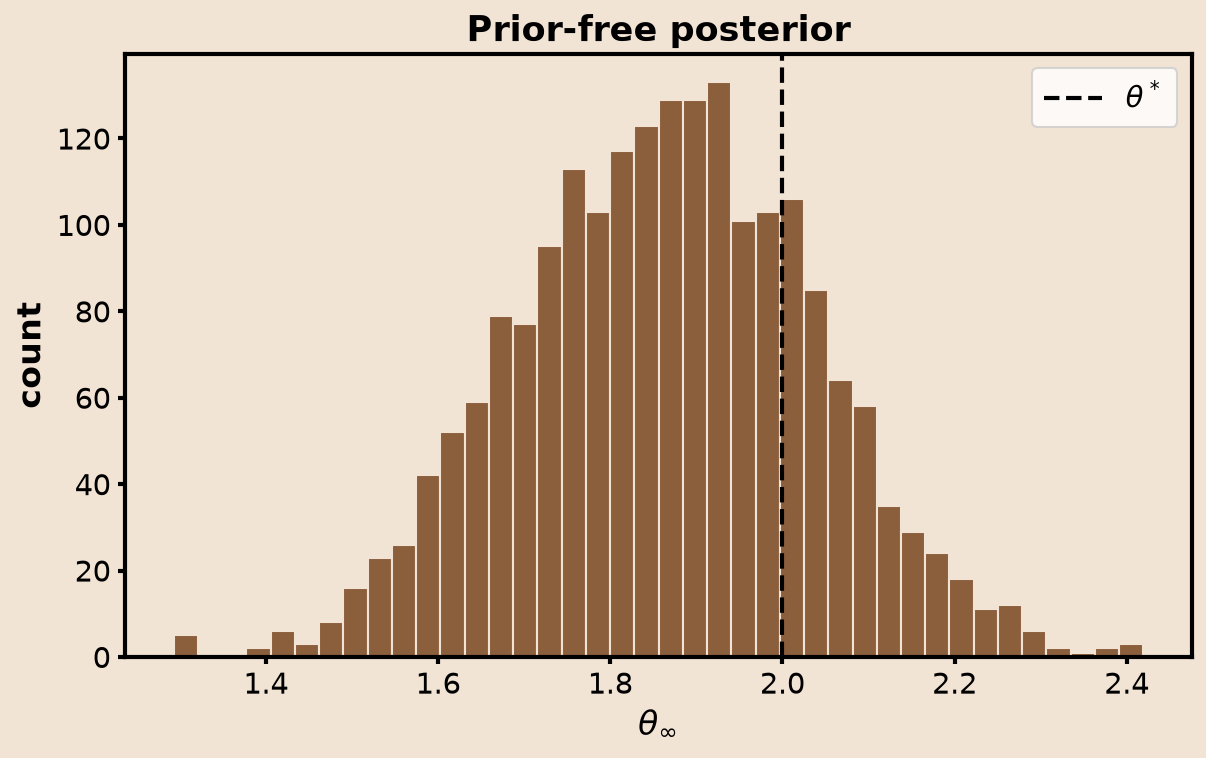
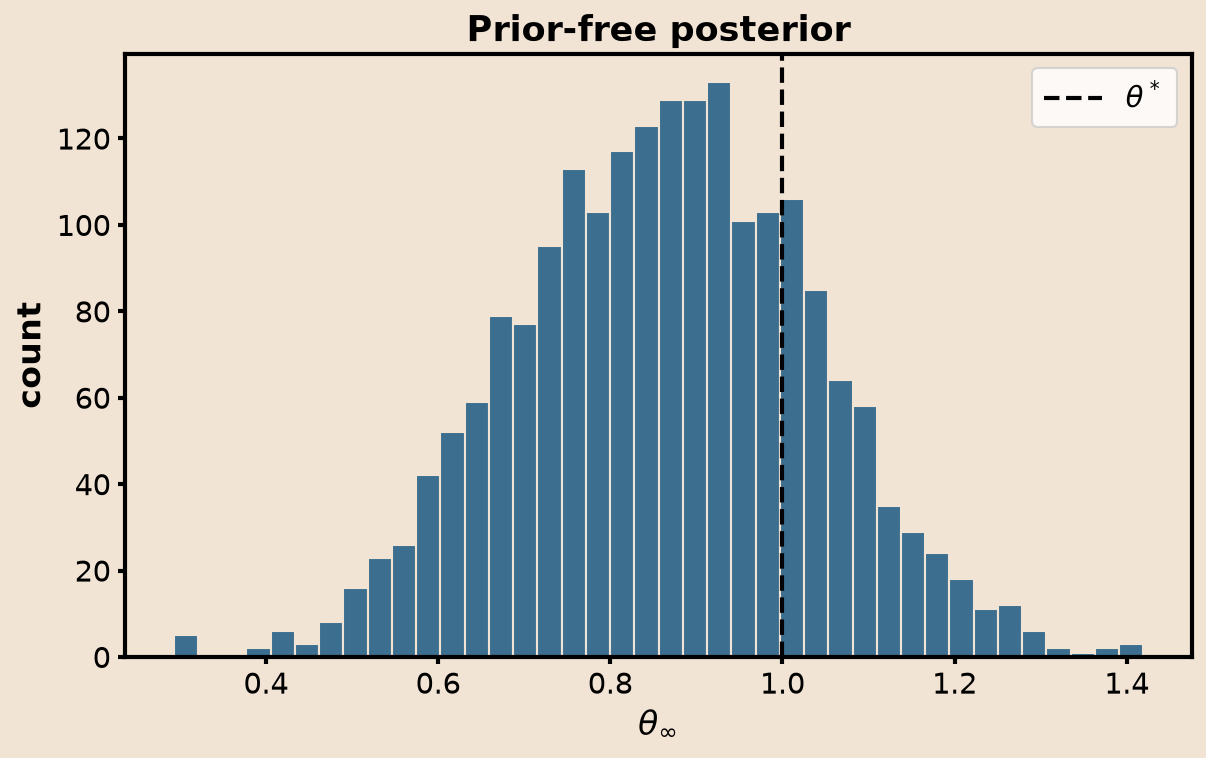
Use theta_star=1.0, blue accent color, plasma convergence coloring
theta_star=1.0 makes the true line y=x in the data plot, about as
readable as it gets. Data points and histogram now use a muted steel
blue instead of brown. Trajectory lines and their colorbar now encode
convergence progress (S_m accumulated by that run) via the plasma
colormap, matching the colorway from the tribal-simulation plotting
script, with dark/purple = unconverged and bright/yellow = converged;
opacity still ramps with the same progress value.

Changed region(s): [[0.2148, 0.091, 0.9511, 0.9103], [0.1227, 0.8193, 0.1841, 0.8799], [0.1841, 0.8799, 0.2148, 0.9103]]

diff --git a/scripts/plot_results.py b/scripts/plot_results.py
@@ -5,11 +5,12 @@ import tomllib
 
 import matplotlib.pyplot as plt
 from matplotlib.collections import LineCollection
-from matplotlib.colors import to_rgb
+from matplotlib.colors import Normalize
 import numpy as np
 
 BG_COLOR = "#F2E4D4"
-ACCENT_COLOR = "#8B5E3C"
+ACCENT_COLOR = "#3B6E8F"
+CONVERGENCE_CMAP = "plasma"
 
 
 def load_config(path):
@@ -48,7 +49,7 @@ def plot_data(x, y, theta_star, path):
 
 def plot_trajectories(theta_traj, x_traj, theta_star, S_n, n, M, num_plot, path):
     m = np.arange(n, M + 1)
-    accent_rgb = to_rgb(ACCENT_COLOR)
+    cmap = plt.get_cmap(CONVERGENCE_CMAP)
     alpha_min, alpha_max = 0.15, 0.9
 
     fig, ax = plt.subplots(figsize=(8, 5))
@@ -56,17 +57,19 @@ def plot_trajectories(theta_traj, x_traj, theta_star, S_n, n, M, num_plot, path)
 
     for traj, x_seq in zip(theta_traj[:num_plot], x_traj[:num_plot]):
         # S_m = sum of x_i^2 seen so far: the accumulated information that drives
-        # the update's step size down. Use it (not raw m) to fade in each line.
+        # the update's step size down. Use it (not raw m) as our convergence measure,
+        # both for color (dark/purple = unconverged, bright/yellow = converged) and
+        # for fading each line in as it goes.
         S = np.concatenate([[S_n], S_n + np.cumsum(x_seq**2)])
         progress = (S - S_n) / (S[-1] - S_n)
         alpha = alpha_min + (alpha_max - alpha_min) * progress
 
         points = np.array([m, traj]).T.reshape(-1, 1, 2)
         segments = np.concatenate([points[:-1], points[1:]], axis=1)
-        lc = LineCollection(segments, colors=[(*accent_rgb, a) for a in alpha[:-1]],
-                             linewidths=2.2)
+        seg_colors = [(*cmap(p)[:3], a) for p, a in zip(progress[:-1], alpha[:-1])]
+        lc = LineCollection(segments, colors=seg_colors, linewidths=2.2)
         ax.add_collection(lc)
-        ax.plot(m[-1], traj[-1], "o", color=ACCENT_COLOR, markersize=6, alpha=alpha_max)
+        ax.plot(m[-1], traj[-1], "o", color=cmap(1.0), markersize=6, alpha=alpha_max)
 
     ymin, ymax = theta_traj[:num_plot].min(), theta_traj[:num_plot].max()
     pad = 0.05 * (ymax - ymin)
@@ -76,6 +79,15 @@ def plot_trajectories(theta_traj, x_traj, theta_star, S_n, n, M, num_plot, path)
     theta_hat_n = float(theta_traj[0, 0])
     ax.plot(n, theta_hat_n, "o", color="dimgray", markersize=8, zorder=5,
             label=rf"$\hat\theta_n \approx {theta_hat_n:.2f}$")
+
+    sm = plt.cm.ScalarMappable(cmap=cmap, norm=Normalize(0, 1))
+    sm.set_array([])
+    cbar = fig.colorbar(sm, ax=ax, pad=0.01)
+    cbar.set_label("Convergence", fontsize=16, fontweight="bold")
+    cbar.set_ticks([0, 1])
+    cbar.set_ticklabels(["Unconverged", "Converged"])
+    cbar.ax.tick_params(labelsize=12, width=2.0)
+    cbar.outline.set_linewidth(2.0)
 
     ax.set_xlabel("Iteration", fontsize=16, fontweight="bold")
     ax.set_ylabel(r"$\hat\theta_m$", fontsize=16, fontweight="bold")